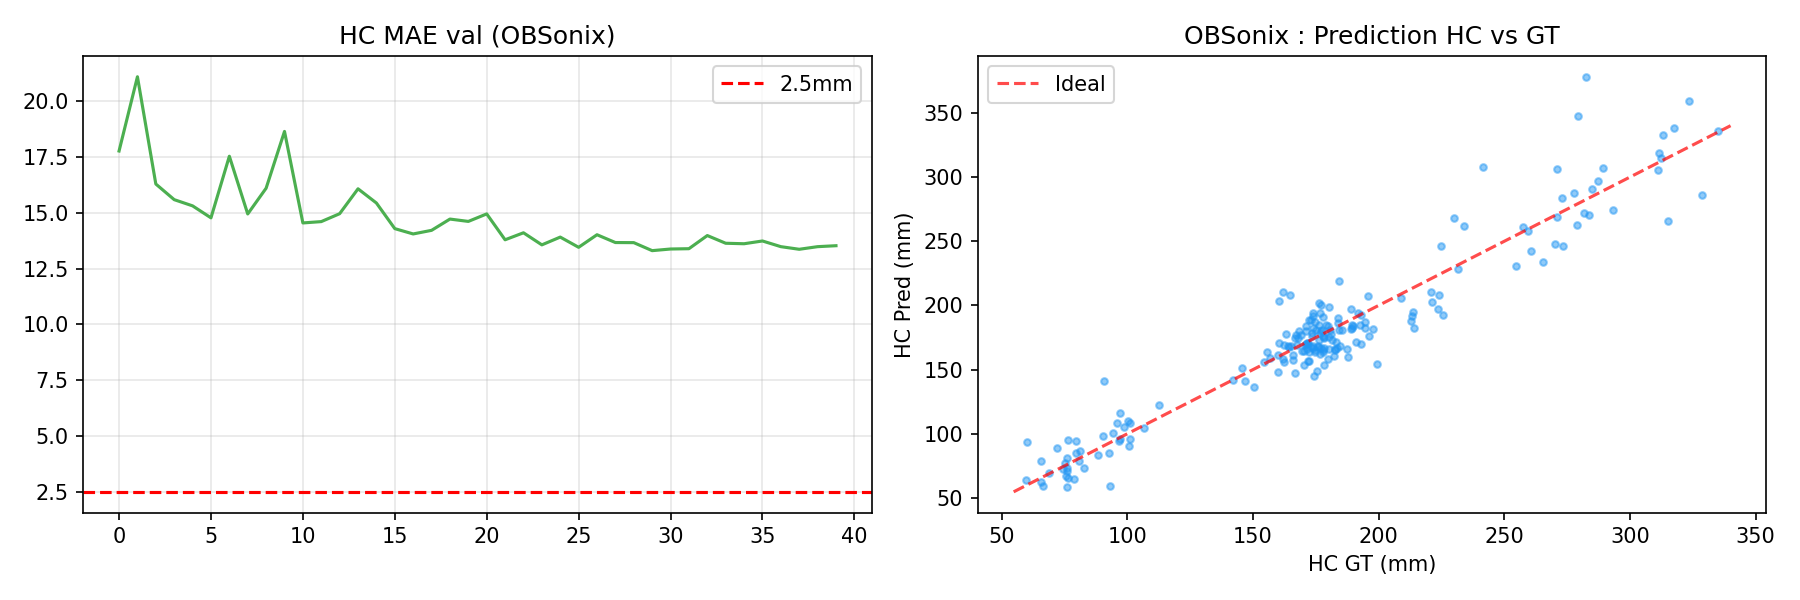
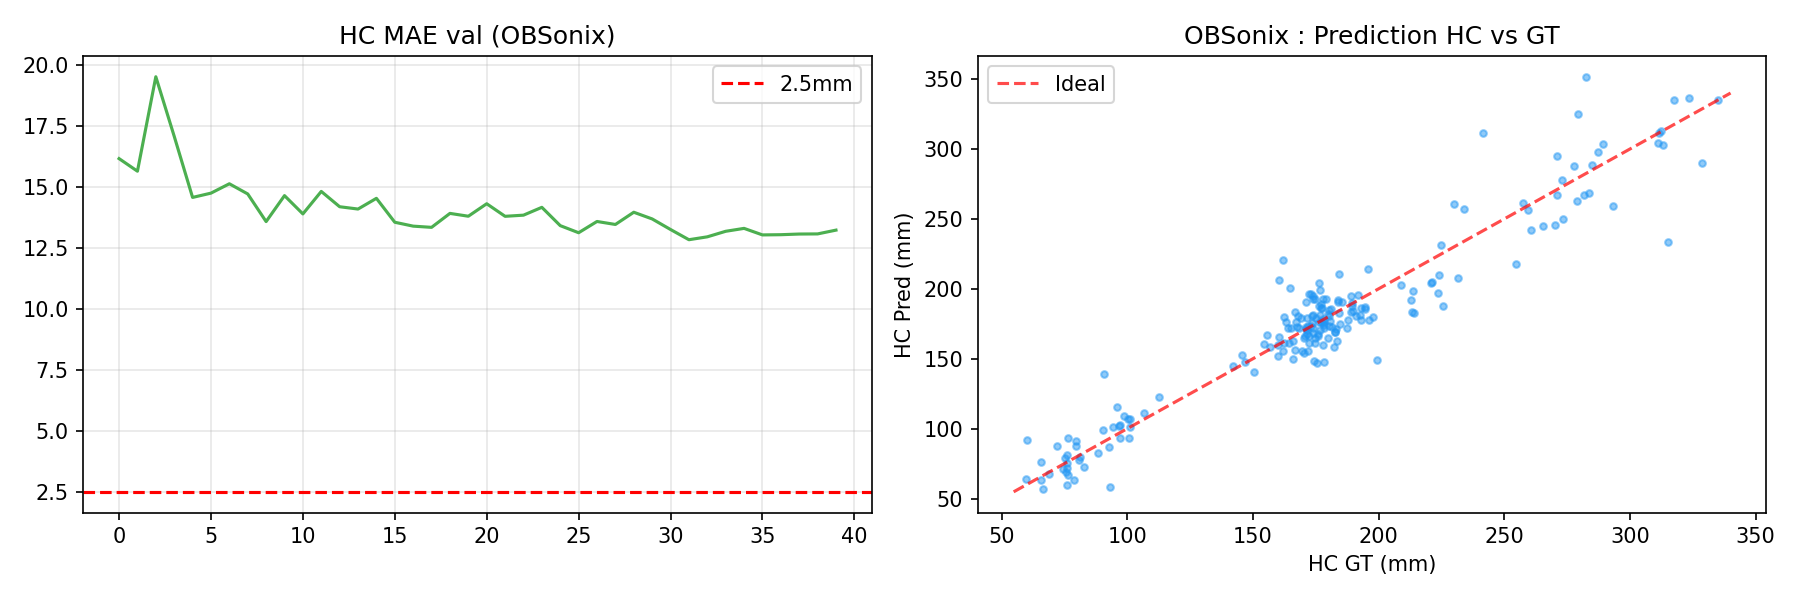
[EXP23_HC_REGRESSION] best_val_mae=12.84mm; mc_mae_kept=8.10mm; fail_rate=83.0%; obj_mae_2.5mm=NON (8.10mm); obj_fail_5pct=NON (83.0%)

diff --git a/experiments/EXP23_HC_REGRESSION/summary.md b/experiments/EXP23_HC_REGRESSION/summary.md
@@ -1,14 +1,14 @@
 # EXP23_HC_REGRESSION
-*2026-06-22 18:11*
+*2026-06-22 23:35*
 
 ## Metriques
 | Metrique | Valeur |
 |---|---|
-| best_val_mae | 13.30mm |
-| mc_mae_kept | 7.43mm |
-| fail_rate | 87.5% |
-| obj_mae_2.5mm | NON (7.43mm) |
-| obj_fail_5pct | NON (87.5%) |
+| best_val_mae | 12.84mm |
+| mc_mae_kept | 8.10mm |
+| fail_rate | 83.0% |
+| obj_mae_2.5mm | NON (8.10mm) |
+| obj_fail_5pct | NON (83.0%) |
 
 ## Notes
 Regression HC en pixels (bien posee) -> mm via pixel_size par image. CLS OBSonix gele + MC-Dropout 20 passes.